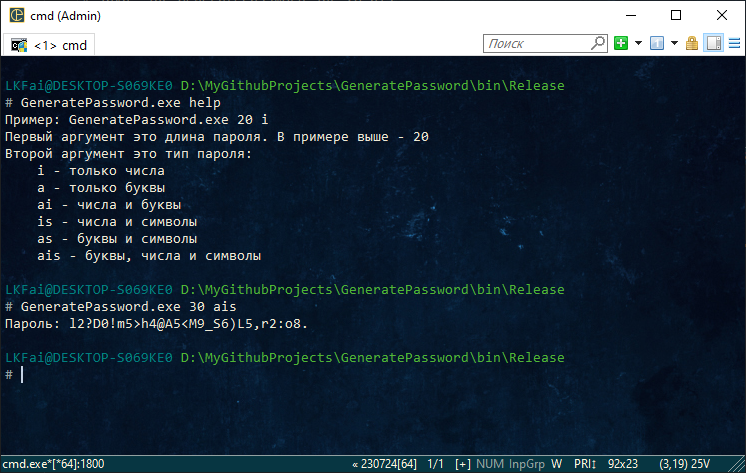
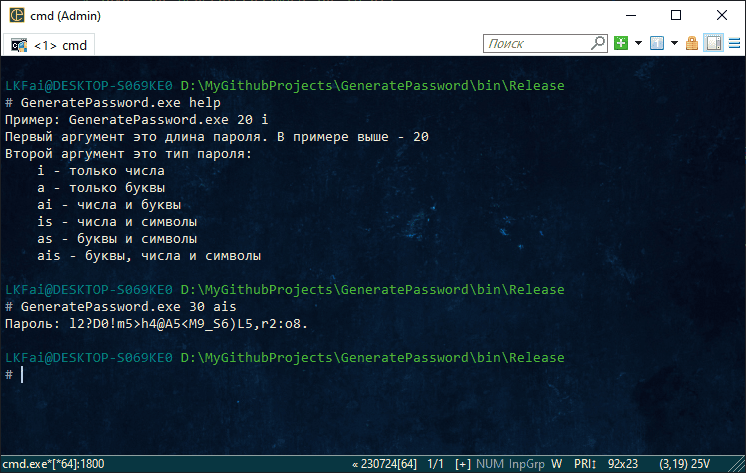
Оптимизировал скорость загрузки и уменьшил лаги за счет сжатия изображений

diff --git a/portfolio.html b/portfolio.html
@@ -26,8 +26,8 @@
         <h2 class="title">Портфолио</h2>
         
         <div class="portfolio-item">
-            <h3>tailogs.github.io</h3>
-            <p><a href="https://github.com/tailogs/TodoList/releases" class="portfolio-design-link">Мой личный веб-сайт | Скачать</a></p>
+            <h3>TodoList</h3>
+            <p><a href="https://github.com/tailogs/TodoList/releases" class="portfolio-design-link">TodoList | Скачать</a></p>
             <p><a href="https://github.com/tailogs/TodoList/releases"><img class="img-portfolio" src="img/TodoList.png" alt="Скриншот рабочей программы"></a></p>
         </div>
         <div class="portfolio-item">
